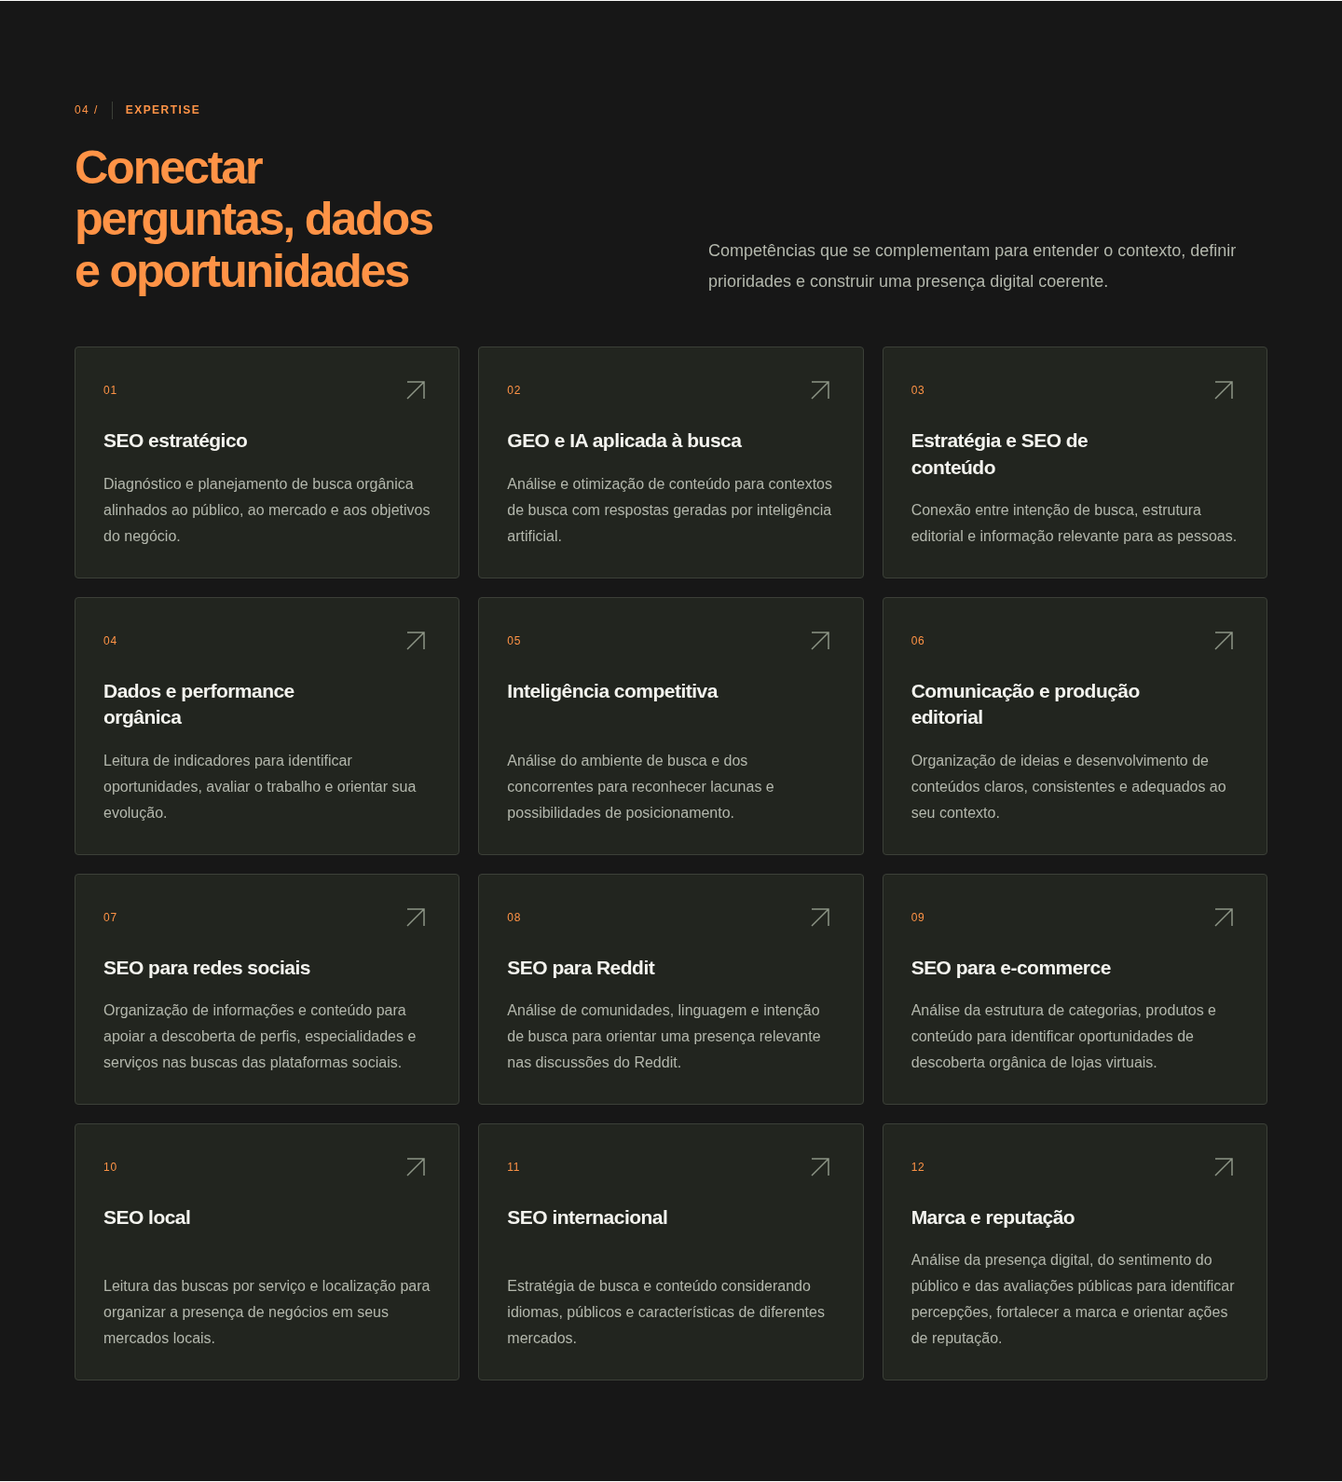
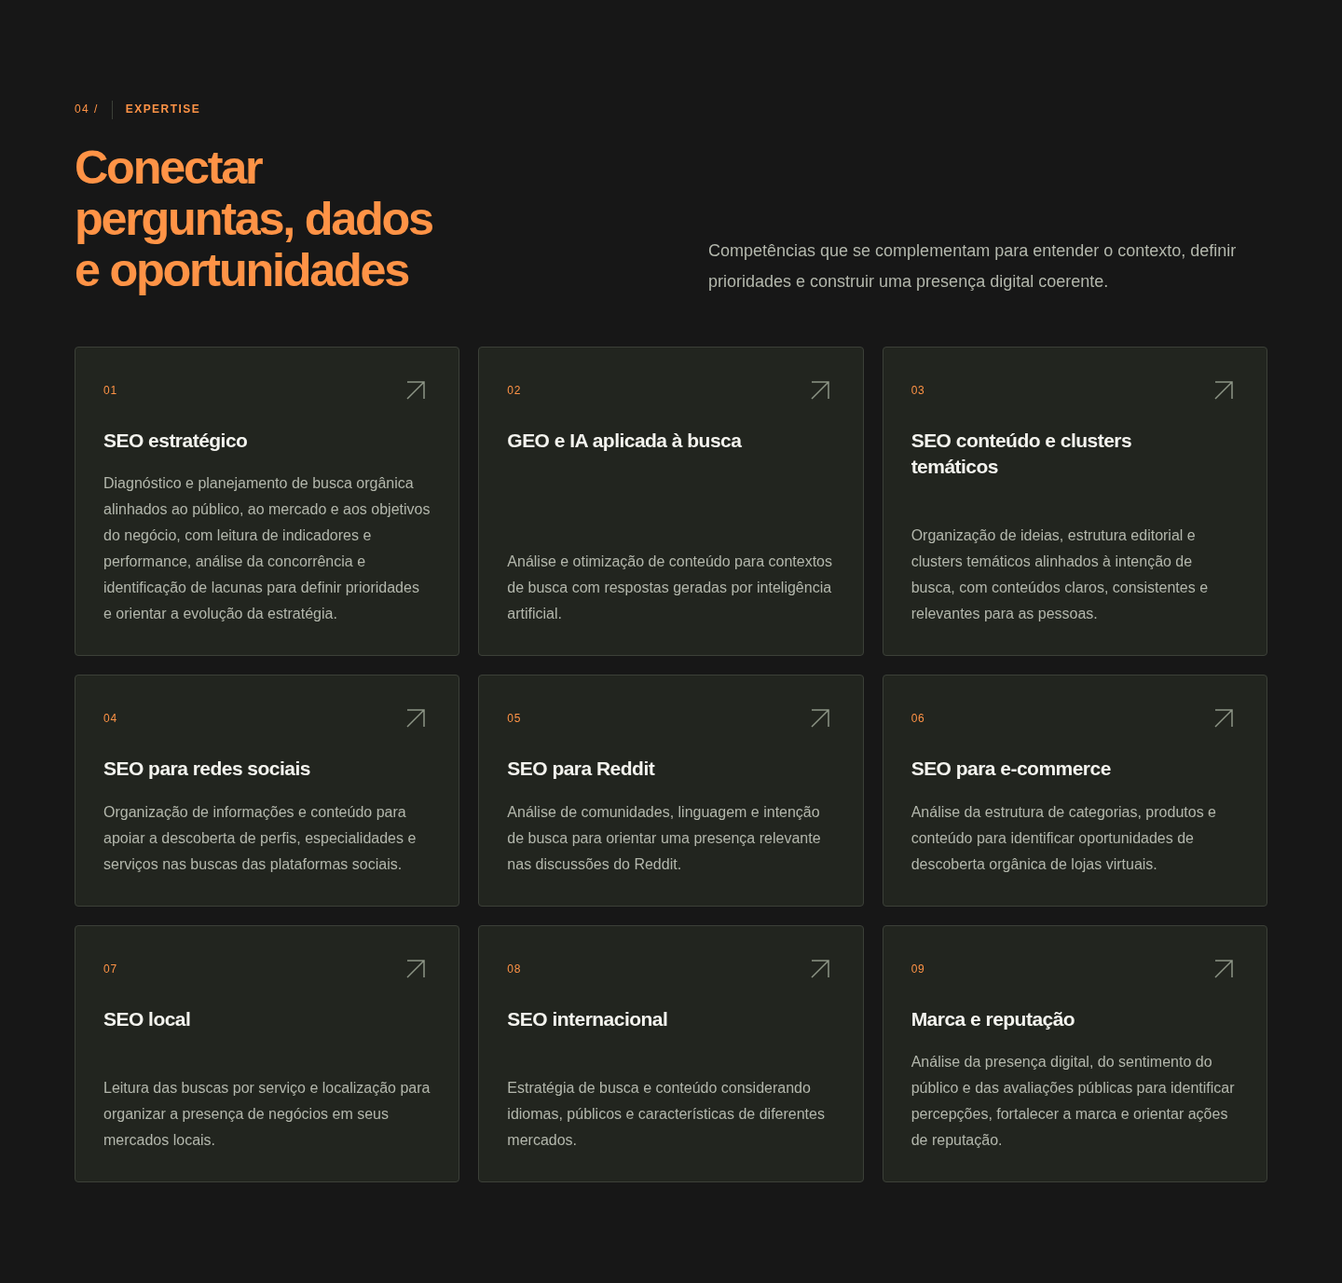
Reorganiza formação, serviços e depoimentos conforme revisão

diff --git a/src/styles/global.css b/src/styles/global.css
@@ -119,18 +119,18 @@ main:focus { outline: none; }
 .stats-item:first-child { padding-left: 0; }
 .stats-item:last-child { padding-right: 0; border: 0; }
 .stats-value { order: -1; color: var(--orange-light); font-size: clamp(2.7rem, 4.5vw, 4.1rem); line-height: 1.05; letter-spacing: -.06em; font-weight: 500; margin-bottom: 15px; }
-.stats-label { max-width: 22ch; color: var(--muted); font-size: 15px; line-height: 1.65; }
+.stats-label { color: var(--muted); font-size: 15px; line-height: 1.65; white-space: nowrap; }
 
-.about-grid { display: grid; grid-template-columns: 1fr .85fr; gap: 100px; padding-top: 42px; border-top: 1px solid var(--line); }
-.differential-item { display: grid; grid-template-columns: 26px 1fr; gap: 20px; padding-block: 23px; border-bottom: 1px solid var(--line); }
-.differential-item:first-child { padding-top: 0; }
+.about-grid { display: grid; grid-template-columns: minmax(0, 1fr); gap: 56px; padding-top: 42px; border-top: 1px solid var(--line); }
+.differential-list { display: grid; grid-template-columns: repeat(5, minmax(0, 1fr)); gap: 16px; }
+.differential-item { display: flex; flex-direction: column; gap: 20px; padding: 24px 20px; border: 1px solid var(--line); border-radius: 4px; background: var(--surface); min-width: 0; }
+.differential-icon { color: var(--orange-ink); }
+.differential-icon svg { width: 32px; height: 32px; }
 .differential-item h4 { font-size: 18px; font-weight: 600; margin-bottom: 8px; }
-.differential-item p { color: var(--muted); font-size: 16px; line-height: 1.75; }
-.differential-item .card-number { padding-top: 3px; }
-.education-block { margin-top: 0; padding-top: 0; }
-.education-list { display: grid; gap: 0; }
-.education-list > li { padding-block: 15px; border-bottom: 1px solid var(--line); }
-.education-list > li:first-child { padding-top: 0; }
+.differential-item p { color: var(--muted); font-size: 15px; line-height: 1.7; }
+.education-block { padding-top: 38px; border-top: 1px solid var(--line); }
+.education-list { display: grid; grid-template-columns: repeat(4, minmax(0, 1fr)); grid-template-rows: repeat(3, auto); grid-auto-flow: column; gap: 0 30px; }
+.education-list > li { padding-block: 18px; border-bottom: 1px solid var(--line); min-width: 0; }
 .education-heading { display: flex; align-items: baseline; justify-content: space-between; flex-wrap: wrap; gap: 7px 12px; }
 .education-heading h4 { font-size: 16px; font-weight: 550; line-height: 1.55; }
 
@@ -169,6 +169,8 @@ main:focus { outline: none; }
 .services-grid { display: grid; grid-template-columns: repeat(3, minmax(0, 1fr)); gap: 24px; }
 .service-card { background: transparent; border: 0; border-left: 1px solid var(--line); border-radius: 0; padding: 0 0 0 24px; }
 .service-card h4 { font-size: 18px; margin-bottom: 14px; }
+.service-card--single-line { grid-column: span 2; }
+.service-card--single-line h4 { white-space: nowrap; }
 .service-card p { font-size: 16px; }
 .section-cta { display: flex; justify-content: flex-end; margin-top: 46px; }
 .modality-card .card-number { display: block; margin-bottom: 26px; }
@@ -181,13 +183,13 @@ main:focus { outline: none; }
 .process-step h4 { font-size: 15px; line-height: 1.5; font-weight: 600; margin-bottom: 10px; }
 .process-step p { color: var(--muted); font-size: 15px; line-height: 1.8; }
 .process-flow .section-note { margin-top: 34px; max-width: 90ch; }
-.testimonial-grid { grid-template-columns: repeat(2, minmax(0, 1fr)); }
-.testimonial-card blockquote { margin: 0 0 25px; font-size: 18px; line-height: 1.6; }
-.testimonial-card { display: flex; flex-direction: column; }
-.testimonial-card blockquote p { color: var(--text); font-size: 18px; line-height: 1.7; font-weight: 450; }
-.testimonial-attribution { display: flex; flex-direction: column; gap: 6px; margin-top: auto; font-size: 16px; font-weight: 600; line-height: 1.6; }
-.testimonial-attribution span { color: var(--muted); font-size: 14px; font-weight: 400; }
-.testimonial-attribution small { color: var(--muted); font-size: 12px; font-weight: 400; padding-top: 14px; margin-top: 9px; border-top: 1px solid var(--line); }
+.testimonial-grid { grid-template-columns: repeat(4, minmax(0, 1fr)); gap: 16px; }
+.testimonial-card blockquote { margin: 0 0 18px; font-size: 15px; line-height: 1.6; }
+.testimonial-card { display: flex; flex-direction: column; padding: 22px; }
+.testimonial-card blockquote p { color: var(--text); font-size: 15px; line-height: 1.6; font-weight: 450; }
+.testimonial-attribution { display: flex; flex-direction: column; gap: 5px; margin-top: auto; font-size: 14px; font-weight: 600; line-height: 1.5; }
+.testimonial-attribution span { color: var(--muted); font-size: 13px; font-weight: 400; }
+.testimonial-attribution small { color: var(--muted); font-size: 12px; font-weight: 400; padding-top: 10px; margin-top: 7px; border-top: 1px solid var(--line); }
 
 .contact-section { padding-block: 116px; background: #20221d; border-bottom: 1px solid #393d33; }
 .contact-grid { display: grid; grid-template-columns: 1.35fr .65fr; gap: 100px; align-items: end; }
@@ -214,13 +216,23 @@ main:focus { outline: none; }
   .hero { padding-top: 116px; }
   .hero-title { font-size: 8rem; }
 }
+@media (max-width: 1280px) {
+  .stats-strip { grid-template-columns: repeat(2, minmax(0, 1fr)); gap: 30px 0; }
+  .stats-item { padding-inline: 32px; }
+  .stats-item:nth-child(2) { padding-right: 0; border-right: 0; }
+  .stats-item:nth-child(3) { padding-left: 0; }
+}
 @media (max-width: 1200px) {
   .container { width: calc(100% - 80px); }
   .header-navigation { gap: 15px; }
   .header-navigation > .header-contact { margin-left: 0; }
   .brand { gap: 12px; }
   .section-heading { gap: 50px; }
-  .about-grid, .contact-grid { gap: 60px; }
+  .contact-grid { gap: 60px; }
+  .differential-item { padding: 22px 16px; }
+  .differential-item h4 { font-size: 17px; }
+  .differential-item p { font-size: 14px; }
+  .testimonial-card { padding: 18px; }
   .service-group { gap: 30px; }
   .services-grid { gap: 18px; }
   .card { padding: 24px; }
@@ -255,6 +267,10 @@ main:focus { outline: none; }
   .stats-item { padding-inline: 22px; }
   .stats-value { font-size: 3rem; }
   .about-grid { gap: 45px; }
+  .differential-list { grid-template-columns: repeat(2, minmax(0, 1fr)); }
+  .education-list { grid-template-columns: repeat(2, minmax(0, 1fr)); grid-template-rows: repeat(6, auto); }
+  .testimonial-grid { grid-template-columns: repeat(2, minmax(0, 1fr)); }
+  .service-card--single-line h4 { font-size: 17px; }
   .expertise-grid { grid-template-columns: repeat(2, minmax(0, 1fr)); }
   .segment-list { grid-template-columns: repeat(2, minmax(0, 1fr)); gap: 0 24px; }
   .case-grid { grid-template-columns: 1fr; }
@@ -308,24 +324,27 @@ main:focus { outline: none; }
   .hero--with-illustration .hero-title { font-size: clamp(2.6rem, 9.3vw, 3.5rem); }
   .hero-illustration { width: min(100%, 340px); }
   .stats-section { padding-block: 36px; }
-  .stats-strip { grid-template-columns: repeat(2, minmax(0, 1fr)); gap: 30px 0; }
-  .stats-item { padding-inline: 24px; }
-  .stats-item:nth-child(2) { padding-right: 0; border-right: 0; }
-  .stats-item:nth-child(3) { padding-left: 0; }
-  .stats-value { font-size: 3.2rem; margin-bottom: 10px; }
+  .stats-strip { grid-template-columns: 1fr; gap: 22px; }
+  .stats-item { padding: 0 0 22px; border-right: 0; border-bottom: 1px solid var(--line); }
+  .stats-item:last-child { padding-bottom: 0; }
+  .stats-value { font-size: 2.6rem; margin-bottom: 8px; }
   .stats-label { font-size: 14px; }
   .about-grid { grid-template-columns: 1fr; gap: 42px; padding-top: 30px; }
   .subsection-title { font-size: 20px; }
-  .differential-item { gap: 14px; }
+  .differential-list { grid-template-columns: 1fr; }
+  .differential-item { gap: 16px; padding: 24px; }
   .differential-item h4 { font-size: 18px; }
-  .differential-item p { font-size: 16px; }
+  .differential-item p { font-size: 15px; }
+  .education-block { padding-top: 30px; }
+  .education-list { grid-template-columns: 1fr; grid-template-rows: none; grid-auto-flow: row; }
   .card-grid, .audience-grid, .expertise-grid, .testimonial-grid { grid-template-columns: 1fr; gap: 14px; }
   .card { padding: 25px; }
   .expertise-card { min-height: 0; }
   .expertise-card h3 { max-width: 26ch; }
   .card h3, .card h4 { font-size: 21px; }
   .card p { font-size: 16px; }
-  .testimonial-card blockquote p { font-size: 18px; }
+  .testimonial-card { padding: 22px; }
+  .testimonial-card blockquote p { font-size: 15px; }
   .segment-list { grid-template-columns: 1fr; }
   .segment-chip { font-size: 16px; padding-block: 18px; }
   .segment-context { grid-template-columns: 1fr; gap: 24px; margin-top: 30px; padding-top: 0; }
@@ -338,6 +357,8 @@ main:focus { outline: none; }
   .services-grid { grid-template-columns: 1fr; gap: 26px; }
   .service-card { padding: 0 0 0 20px; }
   .service-card h4 { font-size: 18px; }
+  .service-card--single-line { grid-column: 1 / -1; padding-left: 0; border-left: 0; }
+  .service-card--single-line h4 { font-size: clamp(14px, 4.2vw, 18px); }
   .section-cta { justify-content: flex-start; margin-top: 34px; }
   .modality-card h4 { font-size: 23px; }
   .process-flow { margin-top: 44px; }

diff --git a/src/data/site.ts b/src/data/site.ts
@@ -24,6 +24,10 @@ export interface DescriptionCard {
   description: string;
 }
 
+export interface Service extends DescriptionCard {
+  singleLineTitle?: boolean;
+}
+
 export interface Education {
   name: string;
   institution?: string;
@@ -119,7 +123,7 @@ export interface SiteContent {
     items: { title: string; examples: string; description: string }[];
   };
   services: Section & {
-    groups: { title: string; items: DescriptionCard[] }[];
+    groups: { title: string; items: Service[] }[];
     cta: Link;
   };
   process: Section & {
@@ -230,7 +234,7 @@ export const site: SiteContent = {
     id: 'numeros',
     label: 'Uma trajetória em números',
     items: [
-      { value: '7+', label: 'anos de experiência na área de comunicação' },
+      { value: '7+', label: 'anos de experiência em comunicação' },
       { value: '40+', label: 'projetos desenvolvidos' },
       { value: '9+', label: 'livros técnicos publicados' },
       { value: '12+', label: 'especializações acadêmicas' },
@@ -301,27 +305,15 @@ export const site: SiteContent = {
     items: [
       {
         title: 'SEO estratégico',
-        description: 'Diagnóstico e planejamento de busca orgânica alinhados ao público, ao mercado e aos objetivos do negócio.',
+        description: 'Diagnóstico e planejamento de busca orgânica alinhados ao público, ao mercado e aos objetivos do negócio, com leitura de indicadores e performance, análise da concorrência e identificação de lacunas para definir prioridades e orientar a evolução da estratégia.',
       },
       {
         title: 'GEO e IA aplicada à busca',
         description: 'Análise e otimização de conteúdo para contextos de busca com respostas geradas por inteligência artificial.',
       },
       {
-        title: 'Estratégia e SEO de conteúdo',
-        description: 'Conexão entre intenção de busca, estrutura editorial e informação relevante para as pessoas.',
-      },
-      {
-        title: 'Dados e performance orgânica',
-        description: 'Leitura de indicadores para identificar oportunidades, avaliar o trabalho e orientar sua evolução.',
-      },
-      {
-        title: 'Inteligência competitiva',
-        description: 'Análise do ambiente de busca e dos concorrentes para reconhecer lacunas e possibilidades de posicionamento.',
-      },
-      {
-        title: 'Comunicação e produção editorial',
-        description: 'Organização de ideias e desenvolvimento de conteúdos claros, consistentes e adequados ao seu contexto.',
+        title: 'SEO conteúdo e clusters temáticos',
+        description: 'Organização de ideias, estrutura editorial e clusters temáticos alinhados à intenção de busca, com conteúdos claros, consistentes e relevantes para as pessoas.',
       },
       {
         title: 'SEO para redes sociais',
@@ -460,6 +452,7 @@ export const site: SiteContent = {
           {
             title: 'Otimização do Perfil da Empresa no Google',
             description: 'Revisão e organização das informações e dos recursos disponíveis no perfil para representar o negócio com clareza.',
+            singleLineTitle: true,
           },
         ],
       },
@@ -491,22 +484,22 @@ export const site: SiteContent = {
             title: 'SEO para marketplace',
             description: 'Análise e otimização das informações de produtos e da presença da loja, conforme os recursos e as regras de cada marketplace.',
           },
+          {
+            title: 'SEO para aplicativos',
+            description: 'Análise e otimização de informações e conteúdos para apoiar a descoberta de aplicativos, conforme os recursos de cada plataforma.',
+          },
         ],
       },
       {
         title: 'Marca pessoal e plataformas',
         items: [
           {
-            title: 'SEO para LinkedIn',
-            description: 'Otimização das informações do perfil para comunicar especialidades, serviços e posicionamento profissional.',
+            title: 'SEO para redes sociais',
+            description: 'Otimização de perfis no LinkedIn e de canais e vídeos no YouTube para comunicar especialidades, organizar informações e apoiar a descoberta nas buscas dessas plataformas.',
           },
           {
-            title: 'SEO para YouTube',
-            description: 'Otimização dos elementos de descoberta dos vídeos e do canal, conforme o conteúdo e o escopo definidos.',
-          },
-          {
-            title: 'SEO para marca pessoal',
-            description: 'Estratégia para organizar a presença associada ao seu nome, à sua especialidade e aos seus serviços.',
+            title: 'SEO para reputação',
+            description: 'Estratégia de presença digital para fortalecer a marca, compreender percepções do público e organizar as informações associadas ao negócio ou profissional.',
           },
           {
             title: 'SEO para Reddit',
@@ -515,11 +508,19 @@ export const site: SiteContent = {
         ],
       },
       {
-        title: 'Serviço complementar',
+        title: 'Serviços complementares',
         items: [
           {
-            title: 'Otimização de presença no Reclame AQUI',
+            title: 'Otimização do Reclame AQUI',
             description: 'Serviço complementar restrito às funcionalidades públicas sob controle do titular da conta. O escopo não inclui controle de avaliações ou resultados de terceiros.',
+          },
+          {
+            title: 'Criação de site e blog',
+            description: 'Criação de sites e blogs alinhados à estratégia de presença digital, com estrutura, organização e conteúdo definidos para os objetivos do negócio.',
+          },
+          {
+            title: 'Produção de conteúdo',
+            description: 'Redação de artigos para blog, roteiros para vídeo e legendas para LinkedIn, conforme a estratégia desenhada.',
           },
         ],
       },

diff --git a/README.md b/README.md
@@ -26,9 +26,13 @@ npm run preview -- --host 127.0.0.1 --port 4322
 
 Edite `src/data/site.ts` para atualizar textos, links, números, formação, serviços, segmentos, cases anônimos e depoimentos sem alterar os componentes. A frase do início está em `hero.headingLines`. Ajustes de cores, tipografia, espaçamento e responsividade ficam em `src/styles/global.css`.
 
-A formação pública exibe somente os nomes de duas graduações e dez especializações. Instituições, períodos e status conhecidos permanecem nos dados como referência editorial, sem aparecer na página. Preserve essas informações e não atribua conclusão, instituição ou datas aos cursos sem confirmação. O bloco de trajetória profissional foi retirado do Sobre; os cinco diferenciais permanecem.
+A seção Sobre exibe cinco diferenciais em cards com ícones distintos, lado a lado em uma linha no desktop. A formação fica abaixo: quatro colunas com três cursos em cada uma no desktop, duas colunas em telas intermediárias e uma em telas menores. Ela mostra somente os nomes de duas graduações e dez especializações. Instituições, períodos e status conhecidos permanecem nos dados como referência editorial, sem aparecer na página. Preserve essas informações e não atribua conclusão, instituição ou datas aos cursos sem confirmação. O bloco de trajetória profissional foi retirado.
 
-A revisão atual reúne doze competências de expertise e doze serviços. Os oito depoimentos foram aprovados pela titular e receberam os textos e vínculos fornecidos para esta revisão. Estão com `status: 'aprovado'` e visíveis; a página reúne as onze seções previstas.
+A revisão atual reúne nove competências de expertise. Leitura de dados, performance e análise da concorrência estão integradas a SEO estratégico; organização editorial está integrada a SEO conteúdo e clusters temáticos.
+
+Os quatorze serviços incluem SEO para redes sociais, reunindo LinkedIn e YouTube, SEO para reputação, SEO para aplicativos, criação de site e blog e produção de conteúdo em artigos, roteiros e legendas. O serviço complementar passa a se chamar Otimização do Reclame AQUI e mantém o escopo restrito às funcionalidades públicas sob controle do titular da conta.
+
+Os oito depoimentos foram aprovados pela titular e preservam as citações e os vínculos fornecidos. Estão com `status: 'aprovado'` e visíveis, em quatro colunas no desktop com tipografia compacta; a página reúne as onze seções previstas.
 
 Novos depoimentos ainda não confirmados devem ficar com `status: 'pendenteRevisao'` para serem omitidos da página. Alterar esse status inclui ou oculta o registro na página gerada e na prévia local, sem iniciar uma publicação por si só.
 
@@ -44,7 +48,8 @@ Antes de publicar alterações, execute `npm run check` e `npm run build`, depoi
 
 - Verifique as larguras de 320, 375, 768, 1024, 1440 e 1920 px, sem rolagem horizontal, imagens quebradas ou âncoras ausentes.
 - Confira o menu por teclado, o retorno do foco com Escape, o movimento reduzido e o contraste. A grade decorativa do hero pode exigir conferência manual de contraste na auditoria axe.
-- Confira a formação apenas com nomes, os doze itens de expertise, os doze serviços e os oito depoimentos aprovados.
+- Confira os cinco cards de diferenciais, as doze formações apenas com nomes, os nove itens de expertise, os quatorze serviços e os oito depoimentos aprovados.
+- Confira a formação em quatro colunas com três cursos por coluna e os depoimentos em quatro colunas no desktop, além da adaptação para telas menores.
 - O workflow executa instalação pelo lockfile, verificação de tipos e build; também exige que as duas imagens originais estejam presentes e não vazias.
 
 ## Revisões editoriais opcionais

diff --git a/docs/revisao/README.md b/docs/revisao/README.md
@@ -10,10 +10,20 @@ Esta pasta disponibiliza capturas e instruções para revisão. O site já está
 - [Públicos atendidos](publicos.png)
 - [Sobre e formação](formacao.png)
 - [Depoimentos aprovados](depoimentos.png)
+- [Serviços](servicos.png)
+- [Indicadores](numeros.png)
+- [Sobre e formação no celular](sobre-mobile.png)
+- [Depoimentos no celular](depoimentos-mobile.png)
+- [Serviços no celular](servicos-mobile.png)
+- [Indicadores no celular](numeros-mobile.png)
 
-As capturas mostram esta revisão, gerada a partir do build estático. Para conferir toda a página, use os comandos abaixo. Os oito depoimentos foram aprovados pela titular e incorporam as citações e os vínculos fornecidos para esta revisão; a página reúne as onze seções previstas.
+As capturas mostram o build estático desta revisão. Para conferir toda a página, use os comandos abaixo. Os oito depoimentos foram aprovados pela titular e preservam as citações e os vínculos fornecidos; a página reúne as onze seções previstas.
 
-A revisão atual apresenta a ilustração original de livro e pena ampliada no hero, com suas linhas em laranja aplicadas por máscara CSS. O PNG mantém seus pixels, proporções e transparência. O destaque usa largura de até 450 px no desktop e até 340 px no celular, conforme o espaço disponível; texto e ilustração ficam empilhados em telas de até 740 px. A marca do cabeçalho e do rodapé continua usando a ilustração original. A fotografia permanece no repositório como acervo e não aparece no site. A página reúne doze itens de expertise e doze serviços. O Sobre mantém cinco diferenciais, sem o bloco de trajetória; sua formação exibe somente nomes de duas graduações e dez especializações.
+A revisão atual apresenta a ilustração original de livro e pena ampliada no hero, com suas linhas em laranja aplicadas por máscara CSS. O PNG mantém seus pixels, proporções e transparência. O destaque usa largura de até 450 px no desktop e até 340 px no celular, conforme o espaço disponível; texto e ilustração ficam empilhados em telas de até 740 px. A marca do cabeçalho e do rodapé continua usando a ilustração original. A fotografia permanece no repositório como acervo e não aparece no site.
+
+A página reúne nove itens de expertise e quatorze serviços. Dados, performance e análise da concorrência integram SEO estratégico; o trabalho editorial integra SEO conteúdo e clusters temáticos. Os serviços incluem SEO para redes sociais com LinkedIn e YouTube, reputação, aplicativos, criação de site e blog e produção de artigos, roteiros e legendas. O serviço complementar recebe o título Otimização do Reclame AQUI, mantendo seu escopo restrito às funcionalidades públicas sob controle do titular da conta.
+
+O Sobre apresenta cinco cards com ícones em uma linha no desktop, sem o bloco de trajetória. A formação fica abaixo, exibindo apenas nomes de duas graduações e dez especializações: quatro colunas com três cursos por coluna no desktop, duas colunas em telas intermediárias e uma nas menores. Os oito depoimentos preservam suas citações e aparecem em quatro colunas no desktop, com tipografia compacta.
 
 ## Baixar e visualizar
 
